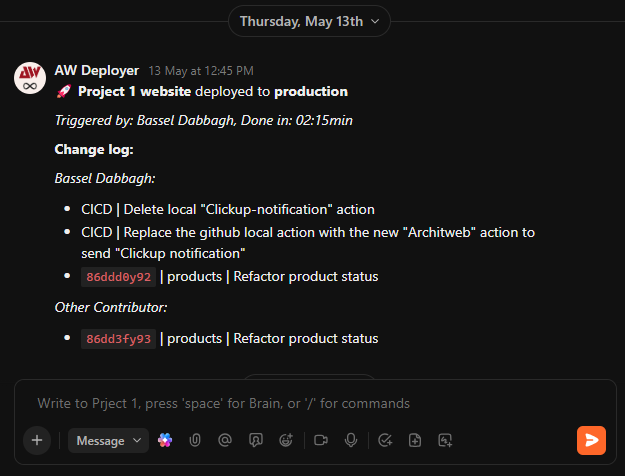
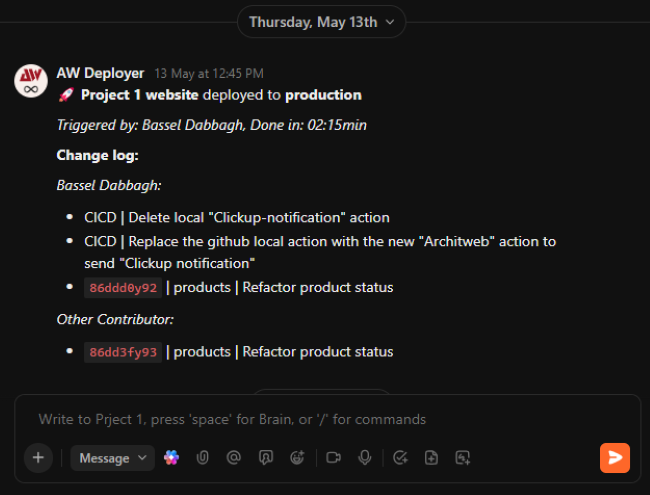
docs: update README to improve screenshot presentation

diff --git a/README.md b/README.md
@@ -15,11 +15,10 @@ It'll Send message to ClickUp chat, including:
 - Single line or full commit message mode
 - Emphasizes Conventional Commit types
 
-## Screenshot
+## Screenshots
 
-![Screenshot](assets/screenshot.png)
-
-![Screenshot-multiline](assets/screenshot-multiline.png)
+<img src="assets/screenshot.png" alt="Screenshot" style="width:90%;">
+<img src="assets/screenshot-multiline.png" alt="Screenshot-multiline" style="width:90%;">
 
 ## Setup on ClickUp
 
